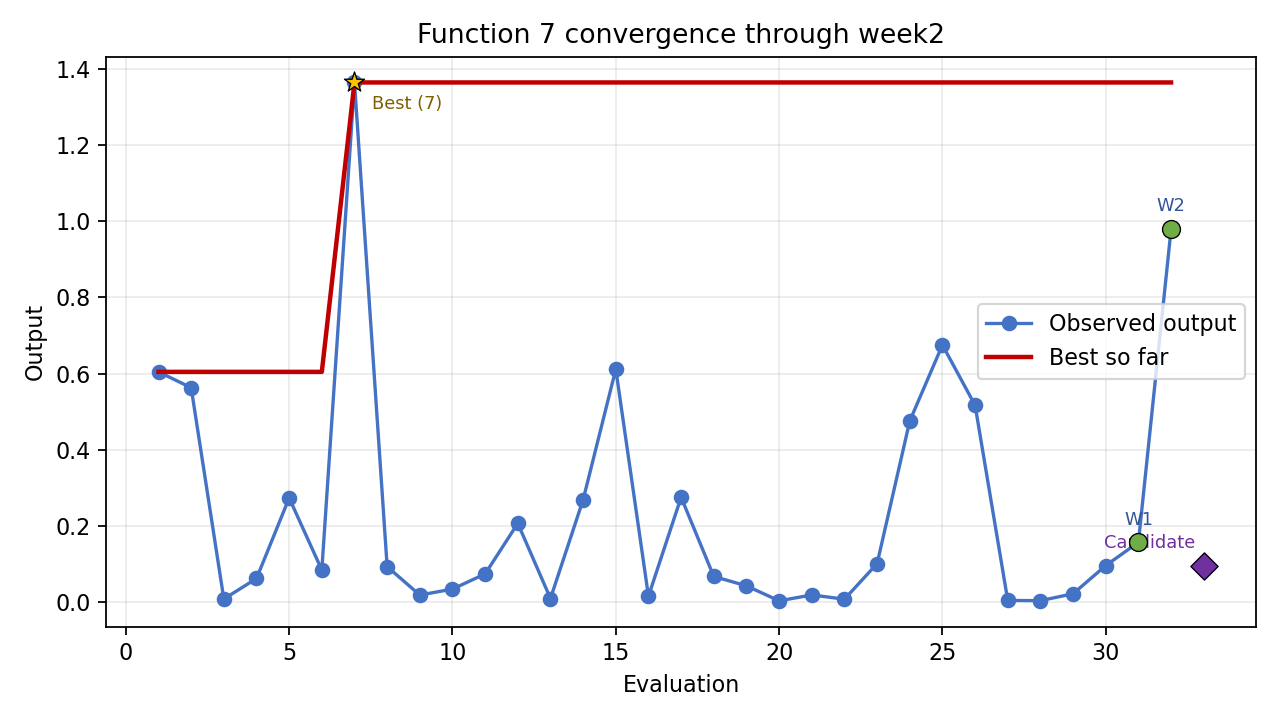
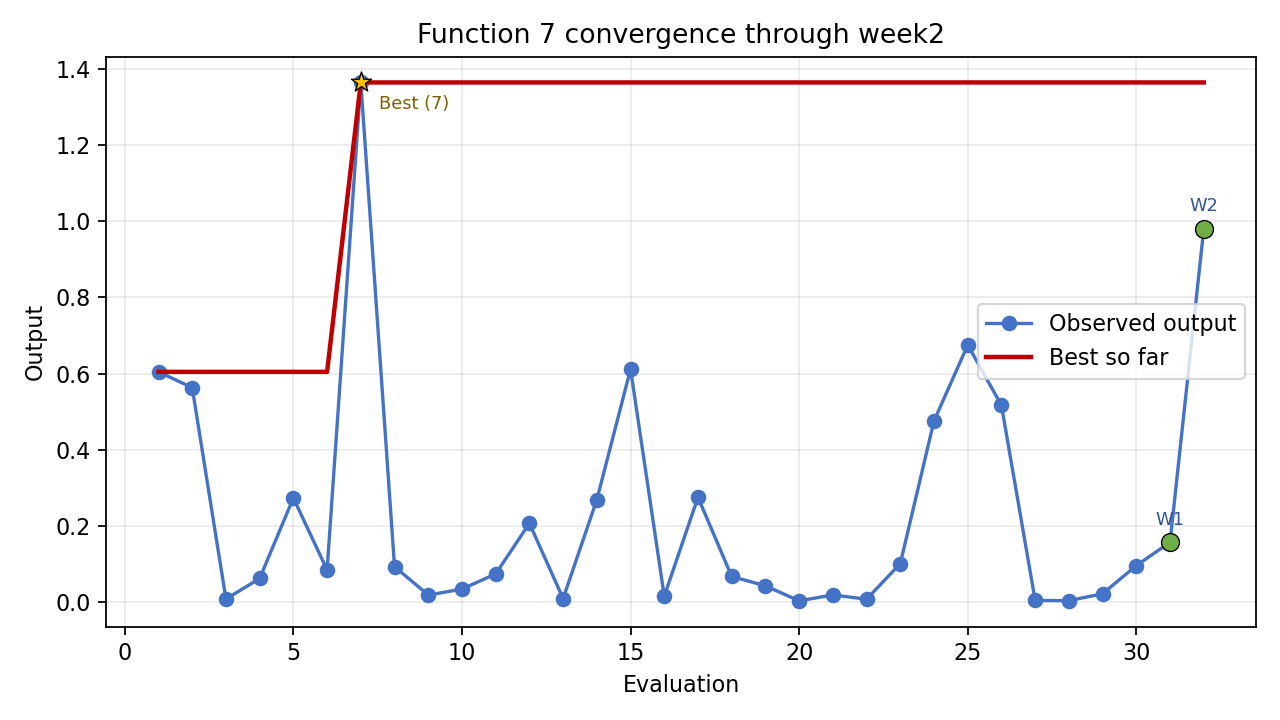
Remove candidate markers from generated plots

diff --git a/scripts/plot_low_dim_views.py b/scripts/plot_low_dim_views.py
@@ -7,8 +7,6 @@ Outputs:
 - Function 3: 3D scatter with output coloring
 - Function 4: 4x4 pairwise scatter matrix with output coloring
 
-Optional candidate inputs can be overlaid from a week inputs file or a generated
-candidate file.
 """
 
 from __future__ import annotations
@@ -27,12 +25,6 @@ def parse_args() -> argparse.Namespace:
     parser.add_argument("--repo-root", type=Path, default=Path("."), help="Repository root.")
     parser.add_argument("--through-week", required=True, help="Use results up to and including this week.")
     parser.add_argument("--output-dir", type=Path, required=True, help="Directory for PNG outputs.")
-    parser.add_argument(
-        "--candidate-file",
-        type=Path,
-        default=None,
-        help="Optional JSON file containing candidate inputs to overlay.",
-    )
     return parser.parse_args()
 
 
@@ -40,18 +32,6 @@ def parse_week_number(week_name: str) -> int:
     if not week_name.startswith("week"):
         raise ValueError(f"Invalid week name: {week_name}")
     return int(week_name[4:])
-
-
-def load_candidate_inputs(candidate_file: Path | None) -> dict[str, list[float]] | None:
-    if candidate_file is None:
-        return None
-    with candidate_file.open("r", encoding="utf-8") as fh:
-        payload = json.load(fh)
-    if "functions" in payload:
-        return payload["functions"]
-    if "recommendations" in payload:
-        return {key: value["candidate"] for key, value in payload["recommendations"].items()}
-    raise KeyError("Candidate file must contain either 'functions' or 'recommendations'.")
 
 
 def load_accumulated_data(repo_root: Path, through_week: str, function_id: int) -> tuple[np.ndarray, np.ndarray]:
@@ -81,21 +61,13 @@ def output_colors(y: np.ndarray) -> np.ndarray:
     return np.clip((y - lo) / (hi - lo), 0.0, 1.0)
 
 
-def add_candidate_2d(ax, candidate: np.ndarray | None) -> None:
-    if candidate is None:
-        return
-    ax.scatter(candidate[0], candidate[1], marker="D", s=90, color="#7030A0", edgecolors="black", linewidths=0.8, zorder=5)
-    ax.annotate("Candidate", (candidate[0], candidate[1]), textcoords="offset points", xytext=(6, 6), fontsize=8, color="#7030A0")
-
-
-def plot_2d(x: np.ndarray, y: np.ndarray, function_id: int, output_path: Path, candidate: np.ndarray | None) -> None:
+def plot_2d(x: np.ndarray, y: np.ndarray, function_id: int, output_path: Path) -> None:
     c = output_colors(y)
     best_idx = int(np.argmax(y))
     fig, ax = plt.subplots(figsize=(6, 5))
     sc = ax.scatter(x[:, 0], x[:, 1], c=c, cmap="viridis", s=48, edgecolors="white", linewidths=0.4)
     ax.scatter(x[best_idx, 0], x[best_idx, 1], marker="*", s=140, color="#FFC000", edgecolors="black", linewidths=0.8, zorder=4)
     ax.annotate("Best", (x[best_idx, 0], x[best_idx, 1]), textcoords="offset points", xytext=(6, -10), fontsize=8, color="#7F6000")
-    add_candidate_2d(ax, candidate)
     ax.set_xlabel("x1")
     ax.set_ylabel("x2")
     ax.set_title(f"Function {function_id} scatter through observations")
@@ -106,16 +78,13 @@ def plot_2d(x: np.ndarray, y: np.ndarray, function_id: int, output_path: Path, c
     plt.close(fig)
 
 
-def plot_3d(x: np.ndarray, y: np.ndarray, output_path: Path, candidate: np.ndarray | None) -> None:
+def plot_3d(x: np.ndarray, y: np.ndarray, output_path: Path) -> None:
     c = output_colors(y)
     best_idx = int(np.argmax(y))
     fig = plt.figure(figsize=(7, 5.5))
     ax = fig.add_subplot(111, projection="3d")
     sc = ax.scatter(x[:, 0], x[:, 1], x[:, 2], c=c, cmap="viridis", s=42, depthshade=True)
     ax.scatter(x[best_idx, 0], x[best_idx, 1], x[best_idx, 2], marker="*", s=170, color="#FFC000", edgecolors="black", linewidths=0.8)
-    if candidate is not None:
-        ax.scatter(candidate[0], candidate[1], candidate[2], marker="D", s=90, color="#7030A0", edgecolors="black", linewidths=0.8)
-        ax.text(candidate[0], candidate[1], candidate[2], "Candidate", color="#7030A0", fontsize=8)
     ax.text(x[best_idx, 0], x[best_idx, 1], x[best_idx, 2], "Best", color="#7F6000", fontsize=8)
     ax.set_xlabel("x1")
     ax.set_ylabel("x2")
@@ -127,7 +96,7 @@ def plot_3d(x: np.ndarray, y: np.ndarray, output_path: Path, candidate: np.ndarr
     plt.close(fig)
 
 
-def plot_pair_matrix(x: np.ndarray, y: np.ndarray, output_path: Path, candidate: np.ndarray | None) -> None:
+def plot_pair_matrix(x: np.ndarray, y: np.ndarray, output_path: Path) -> None:
     c = output_colors(y)
     best_idx = int(np.argmax(y))
     fig, axes = plt.subplots(4, 4, figsize=(10, 10))
@@ -136,14 +105,10 @@ def plot_pair_matrix(x: np.ndarray, y: np.ndarray, output_path: Path, candidate:
             ax = axes[i, j]
             if i == j:
                 ax.hist(x[:, i], bins=10, color="#D9E2F3", edgecolor="#4472C4")
-                if candidate is not None:
-                    ax.axvline(candidate[i], color="#7030A0", linestyle="--", linewidth=1.3)
                 ax.axvline(x[best_idx, i], color="#C00000", linewidth=1.2)
             else:
                 ax.scatter(x[:, j], x[:, i], c=c, cmap="viridis", s=20, edgecolors="none")
                 ax.scatter(x[best_idx, j], x[best_idx, i], marker="*", s=70, color="#FFC000", edgecolors="black", linewidths=0.5, zorder=4)
-                if candidate is not None:
-                    ax.scatter(candidate[j], candidate[i], marker="D", s=34, color="#7030A0", edgecolors="black", linewidths=0.5, zorder=5)
             if i == 3:
                 ax.set_xlabel(f"x{j+1}")
             else:
@@ -164,19 +129,15 @@ def main() -> None:
     repo_root = args.repo_root.resolve()
     output_dir = args.output_dir.resolve()
     output_dir.mkdir(parents=True, exist_ok=True)
-    candidate_inputs = load_candidate_inputs(None if args.candidate_file is None else args.candidate_file.resolve())
 
     for function_id in range(1, 5):
         x, y = load_accumulated_data(repo_root, args.through_week, function_id)
-        candidate = None
-        if candidate_inputs is not None and str(function_id) in candidate_inputs:
-            candidate = np.array(candidate_inputs[str(function_id)], dtype=float)
         if function_id in (1, 2):
-            plot_2d(x, y, function_id, output_dir / f"function_{function_id}_scatter.png", candidate)
+            plot_2d(x, y, function_id, output_dir / f"function_{function_id}_scatter.png")
         elif function_id == 3:
-            plot_3d(x, y, output_dir / "function_3_scatter.png", candidate)
+            plot_3d(x, y, output_dir / "function_3_scatter.png")
         else:
-            plot_pair_matrix(x, y, output_dir / "function_4_pairplot.png", candidate)
+            plot_pair_matrix(x, y, output_dir / "function_4_pairplot.png")
 
 
 if __name__ == "__main__":

diff --git a/scripts/plot_convergence.py b/scripts/plot_convergence.py
@@ -7,7 +7,6 @@ chosen week, then writes one convergence plot per function showing:
 - best-so-far output by evaluation order
 - markers for weekly submissions
 - annotation for the current best observation
-- optional marker for the next candidate submission
 """
 
 from __future__ import annotations
@@ -39,12 +38,6 @@ def parse_args() -> argparse.Namespace:
         required=True,
         help="Directory where the plot PNGs should be written.",
     )
-    parser.add_argument(
-        "--candidate-file",
-        type=Path,
-        default=None,
-        help="Optional JSON file containing next-round candidate inputs.",
-    )
     return parser.parse_args()
 
 
@@ -75,29 +68,11 @@ def load_outputs(repo_root: Path, through_week: str, function_id: int) -> tuple[
     return y, submissions
 
 
-def load_candidate_inputs(candidate_file: Path | None) -> dict[str, list[float]] | None:
-    if candidate_file is None:
-        return None
-    with candidate_file.open("r", encoding="utf-8") as fh:
-        payload = json.load(fh)
-    if "functions" in payload:
-        return payload["functions"]
-    if "recommendations" in payload:
-        return {
-            key: value["candidate"]
-            for key, value in payload["recommendations"].items()
-        }
-    raise KeyError("Candidate file must contain either 'functions' or 'recommendations'.")
-
-
 def main() -> None:
     args = parse_args()
     repo_root = args.repo_root.resolve()
     output_dir = args.output_dir.resolve()
     output_dir.mkdir(parents=True, exist_ok=True)
-    candidate_inputs = load_candidate_inputs(
-        None if args.candidate_file is None else args.candidate_file.resolve()
-    )
 
     all_outputs: list[tuple[int, np.ndarray, list[tuple[int, int, float]]]] = []
     for function_id in range(1, 9):
@@ -133,29 +108,6 @@ def main() -> None:
             fontsize=8,
             color="#7F6000",
         )
-        if candidate_inputs is not None and str(function_id) in candidate_inputs:
-            candidate_eval = len(y) + 1
-            recent_window = y[-5:] if len(y) >= 5 else y
-            candidate_y = float(np.median(recent_window))
-            plt.scatter(
-                candidate_eval,
-                candidate_y,
-                s=75,
-                marker="D",
-                color="#7030A0",
-                edgecolors="black",
-                linewidths=0.6,
-                zorder=5,
-            )
-            plt.annotate(
-                "Candidate",
-                (candidate_eval, candidate_y),
-                textcoords="offset points",
-                xytext=(-4, 8),
-                ha="right",
-                fontsize=8,
-                color="#7030A0",
-            )
         plt.xlabel("Evaluation")
         plt.ylabel("Output")
         plt.title(f"Function {function_id} convergence through {args.through_week}")
@@ -176,12 +128,6 @@ def main() -> None:
             ax.scatter(eval_idx, output, s=24, color="#70AD47", edgecolors="black", linewidths=0.4, zorder=4)
             ax.annotate(f"W{week}", (eval_idx, output), textcoords="offset points", xytext=(0, 5), ha="center", fontsize=6)
         ax.scatter(best_idx + 1, y[best_idx], s=40, marker="*", color="#FFC000", edgecolors="black", linewidths=0.4, zorder=5)
-        if candidate_inputs is not None and str(function_id) in candidate_inputs:
-            candidate_eval = len(y) + 1
-            recent_window = y[-5:] if len(y) >= 5 else y
-            candidate_y = float(np.median(recent_window))
-            ax.scatter(candidate_eval, candidate_y, s=28, marker="D", color="#7030A0", edgecolors="black", linewidths=0.4, zorder=5)
-            ax.annotate("C", (candidate_eval, candidate_y), textcoords="offset points", xytext=(0, 5), ha="center", fontsize=6, color="#7030A0")
         ax.set_title(f"Function {function_id}")
         ax.grid(alpha=0.25)
     fig.suptitle(f"Convergence through {args.through_week}")
